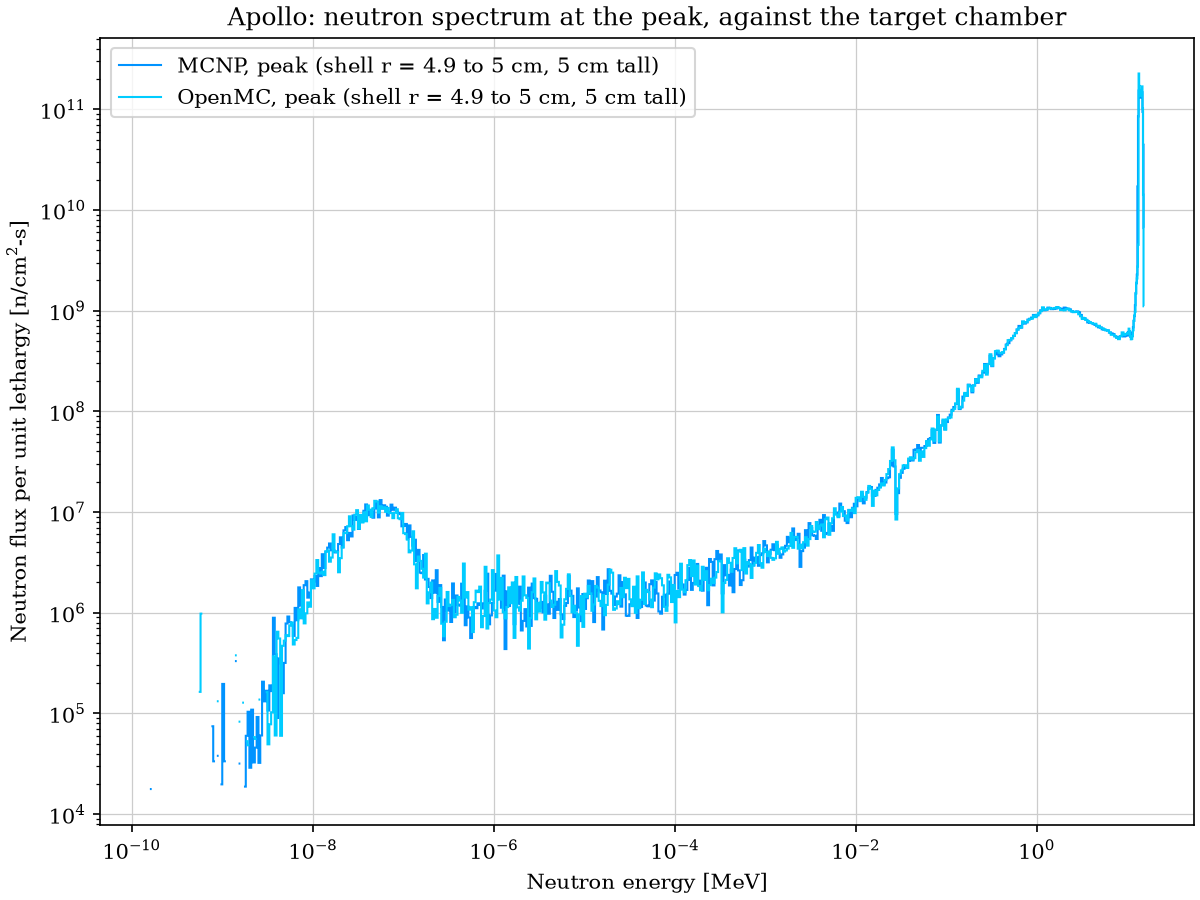
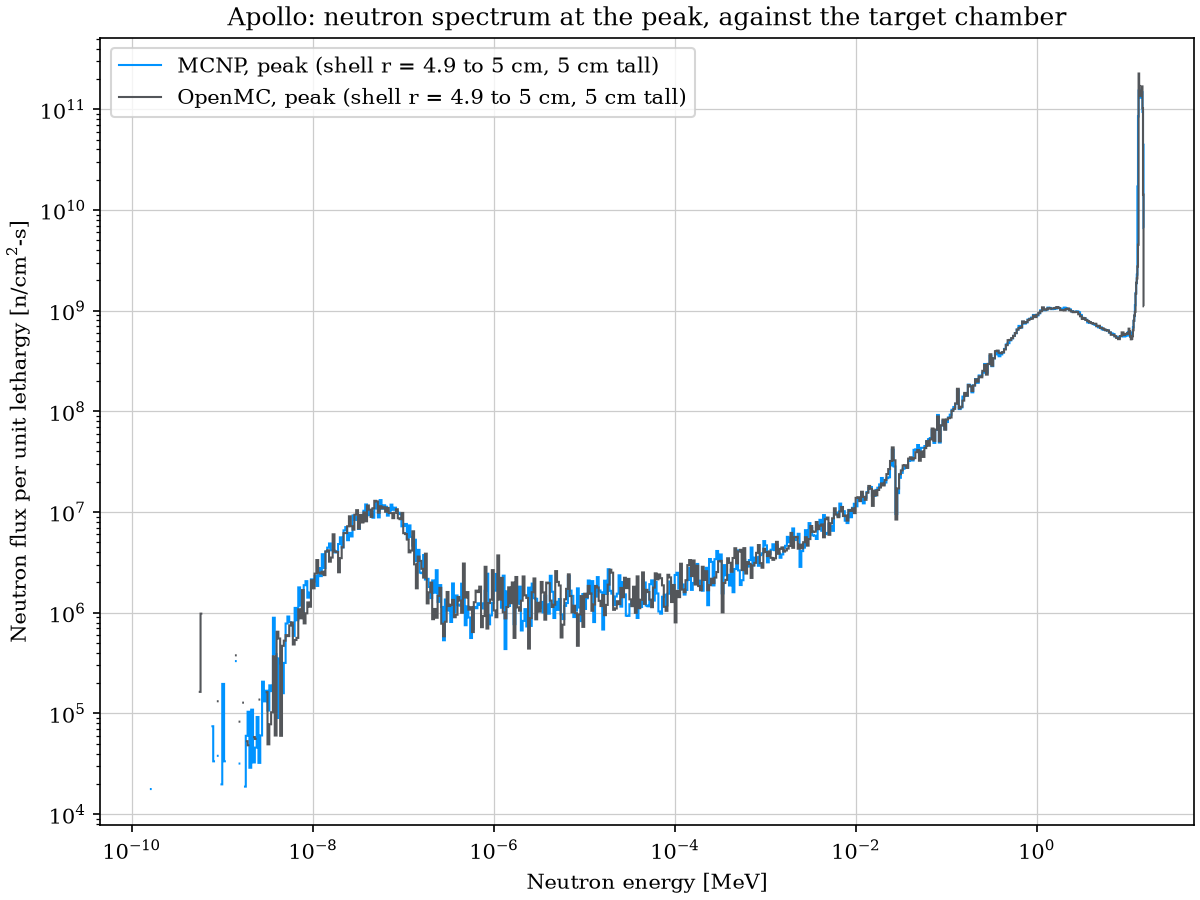
Make the spectrum plots easier to read
OpenMC's spectra are drawn in SHINE Dark Gray rather than a second blue, so
they stand apart from MCNP's where the lines overlap, and Artemis's legend
entries take two lines so the legend clears the annihilation peak.

diff --git a/plot_results.py b/plot_results.py
@@ -221,7 +221,8 @@ SYSTEMS = {
         regions=["-x", "+x"],
         peak_hundreds={"-x": 200, "+x": 300},
         mcnp_bin=0,
-        legend="peak (5 x 5 x 0.1 cm plates, mean of -x and +x)",
+        # On two lines, so the legend clears the annihilation peak at 511 keV
+        legend="peak (5 x 5 x 0.1 cm plates,\nmean of -x and +x)",
         spectrum_title="spectrum at the peak in the cassette regions",
         outline=cassette_sides,
         vmin={("flux", "pit"): 1e6, ("flux", "cavity"): 1e7,
@@ -278,7 +279,9 @@ SHINE = {
     "mid gray": "#B1B3B3",
     "light gray": "#CCCCCC",
 }
-SPECTRUM_COLORS = {"MCNP": SHINE["dark blue"], "OpenMC": SHINE["shine blue"]}
+# MCNP in Dark Blue and OpenMC in Dark Gray, which stand apart where the lines overlap (two blues
+# do not)
+SPECTRUM_COLORS = {"MCNP": SHINE["dark blue"], "OpenMC": SHINE["dark gray"]}
 
 # Contour line colors: the first N colors of CONTOUR_COLORS_2 (N = number of contour levels), in the
 # order they appear in CONTOUR_COLORS_1
@@ -658,8 +661,8 @@ def plot_flux(system, results):
 
 
 def plot_spectra(system, results):
-    """The spectra at the peak, per unit lethargy, with every code on the same axes, in SHINE blues
-    (the darker for MCNP)."""
+    """The spectra at the peak, per unit lethargy, with every code on the same axes, in SHINE colors
+    (SPECTRUM_COLORS)."""
     for particle in ["neutron", "photon"]:
         fig, ax = plt.subplots(figsize=(8, 6), layout="constrained")
         for r in results:
